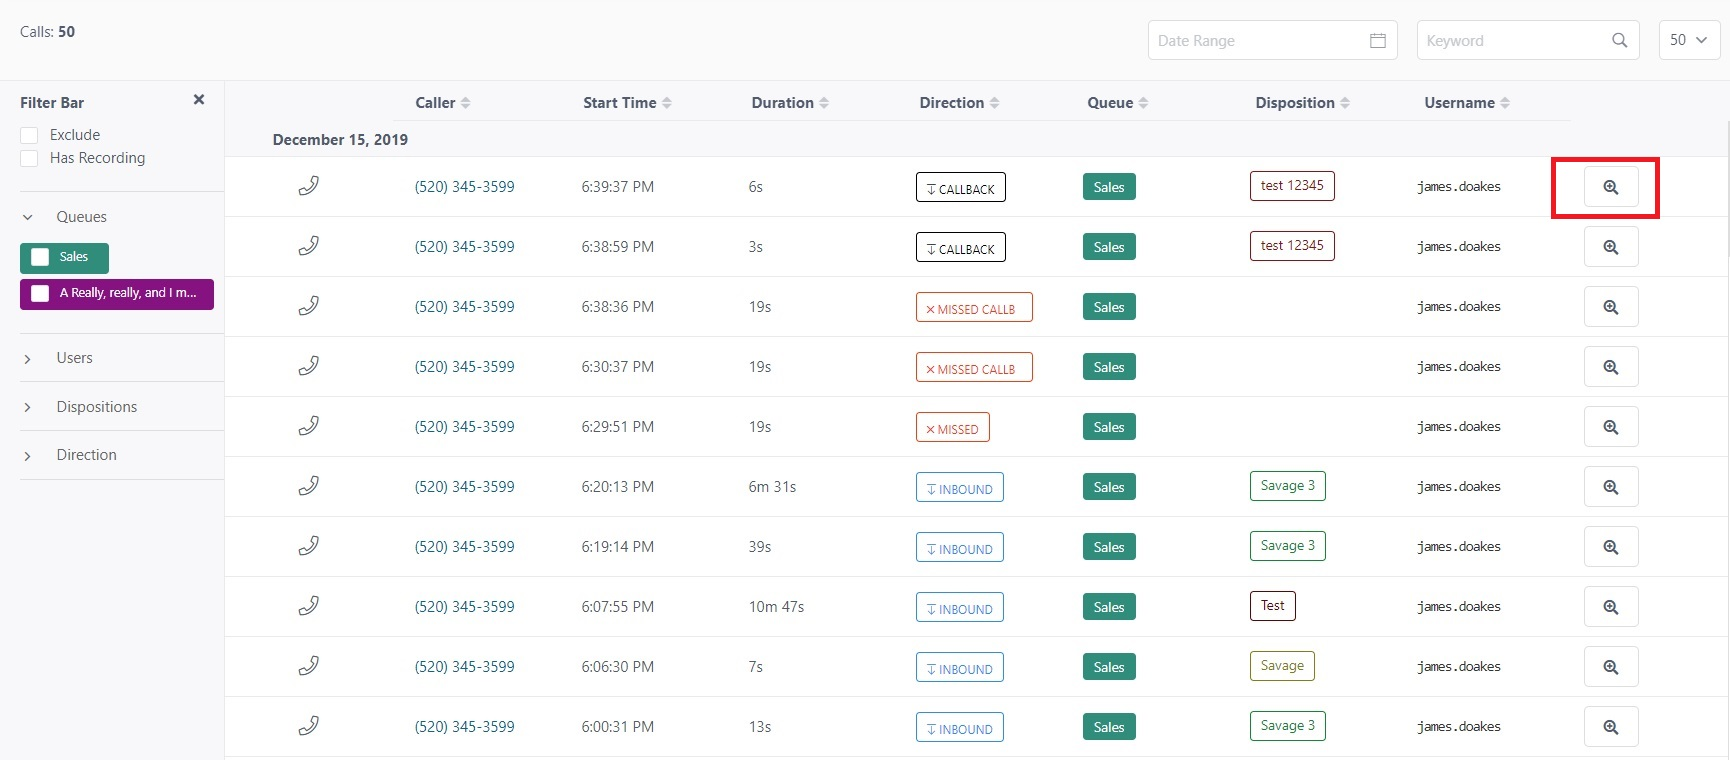
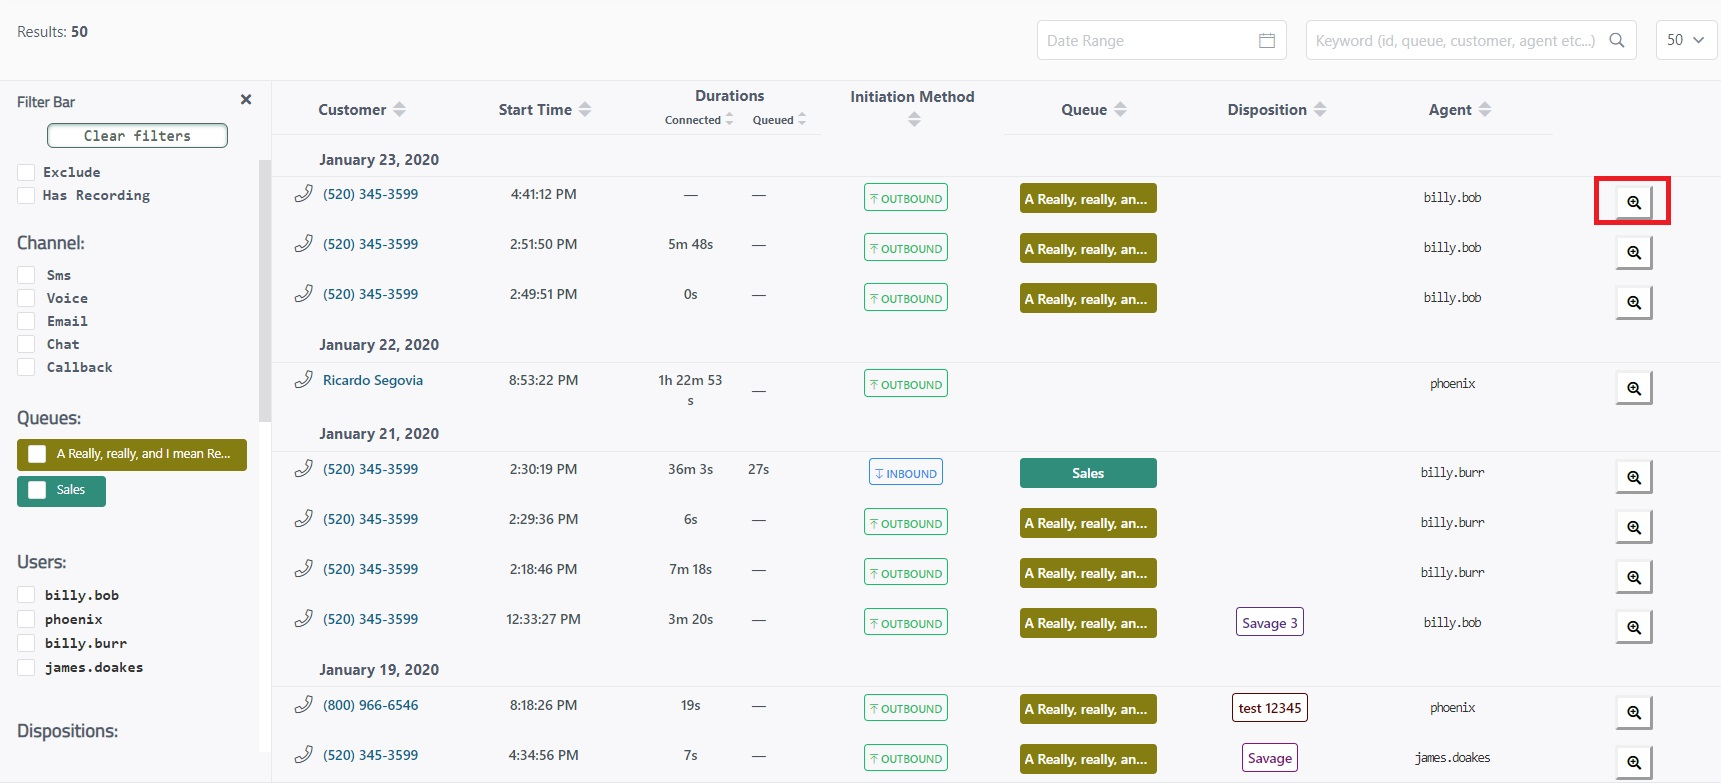
updated activity page with v0.9.0 images

diff --git a/docs/_pages/activity.md b/docs/_pages/activity.md
@@ -36,7 +36,7 @@ This is located at the top / header of the Activity dashboard:
 - **Number of calls** filter (Gif 1) will determine the number of calls that will first load in the Activity tab. By default this is initially set to 50, so when entering the Activity dashboard it will load the first 50 calls of the Instance from the most recent to the latest. If you scroll down to the bottom a "See more" button will display, if clicked it will load more calls. Below it loads 100 more because the filter was changed to 50 to 100, showing 200 calls at the top left corner.
 
 <figure>
-   <img src="{{ '/assets/images/calls-number-filter.gif' }}" alt="Call numbers filter">
+   <img src="{{ '/assets/images/load-more.gif' }}" alt="Call numbers filter">
    <span>Gif 1. Showing Number of Calls Load and See More button</span>
 </figure>
 ----
@@ -52,7 +52,7 @@ Located at the left corner, it is used to filter and sort calls by:
 - Channel.
 - Duration.
 
-As of v0.9.0, Dextr enhanced the looks of the Activity dashboard. If you click the label in one of the records corresponding to either Direction, Queue, Disposition or Username you also activate the filter functionality (Figure 3).
+If you click the label in one of the records corresponding to either Direction, Queue, Disposition or Username you also activate the filter functionality (Figure 3).
 
 <figure>
    <img src="{{ '/assets/images/filter-bar.jpg' }}" alt="Filter bar">
